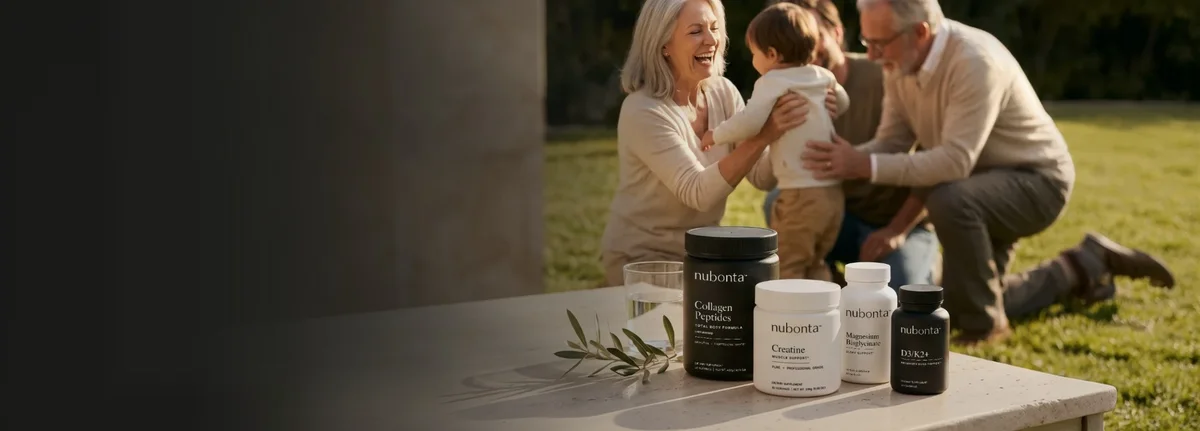
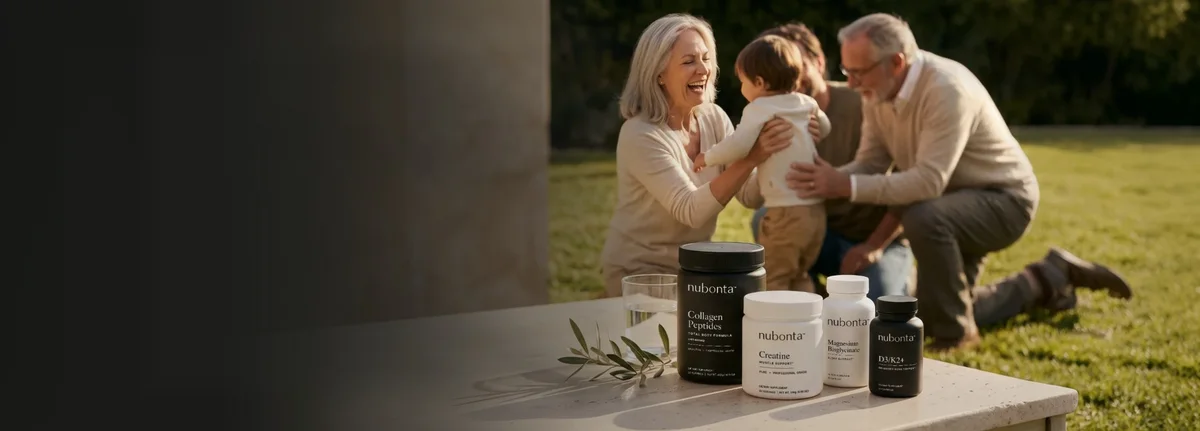
v2 homepage hero: new photo and white Formerly Healthy Bones Co. tag from Figma

diff --git a/v2/index.html b/v2/index.html
@@ -284,7 +284,7 @@ document.addEventListener('DOMContentLoaded', function () {
   background: var(--hero-dark); color: var(--color-white); --focus: var(--color-white); }
 .hero__media { position: absolute; inset: 0; z-index: -3; overflow: hidden; }
 /* user Figma 2026-11-17 (node 6872:4422): the extended photo, shifted ~4% to the left so the Healthy Bones Co. tag fits to the right of the bottles */
-.hero__media img { position: absolute; inset: 0; width: 100%; height: 100%; object-fit: cover; object-position: 100% 50%; }   /* right edge anchored: on screens narrower than 1920 the dark left side is cropped, so the bottles move left of the tag */
+.hero__media img { position: absolute; inset: 0; width: 100%; height: 100%; object-fit: cover; object-position: 80% 50%; }   /* 2026-11-18 new zoomed-out photo (Figma 6933:3123 update): 80% keeps the products between the copy and the tag at 1280-1440 (100% put them under the headline) */   /* right edge anchored: on screens narrower than 1920 the dark left side is cropped, so the bottles move left of the tag */
 /* 2026-11-18 new hero (Figma 6933:3123): new photo (dark left side is in the photo) fills the hero exactly, no parallax, so the products are always whole */
 /* (old silk-shadow layer removed with the new hero, 2026-11-18; it's in _backup-2026-11-18/20-hero-before-new-hero.html) */
 /* Figma 6933:3124: gradient #1a1a18 (user's own value, kept as given) -> transparent, over the left 65.2% (1252 of 1920) */
@@ -299,8 +299,8 @@ document.addEventListener('DOMContentLoaded', function () {
 .hero__ctas .icon { margin-left: var(--space-8); }
 /* user Figma 2026-11-17 ("Tag small banner", node 6872:5079): "Formerly Healthy Bones Co." tag with the HBC logo, Charcoal, flush to the right edge
    next to the bottles (replaces the copper n label; client: don't force the n). The magenta is Healthy Bones Co.'s own logo colour. */
-.hero__tag { position: absolute; right: 0; bottom: 5.1875rem; z-index: 1; display: flex; align-items: center; justify-content: center; gap: 0.3125rem; width: 20rem; padding: var(--space-16); border-radius: 0.75rem 0 0 0.75rem;
-  background: var(--color-charcoal); color: var(--color-white); font: 400 1.125rem/1.2 var(--font-sans); }
+.hero__tag { position: absolute; right: 0; bottom: 5.1875rem; z-index: 1; display: flex; align-items: center; justify-content: center; gap: 0.3125rem; width: 20rem; padding: var(--space-16); border-radius: 0.75rem 0 0 0.75rem; --focus: var(--color-charcoal);
+  background: var(--color-white); color: var(--color-charcoal); font: 400 1.125rem/1.2 var(--font-sans); }
 .hero__tag img { flex: none; width: 6.3125rem; height: auto; }
 
 @media (max-width: 1279px) {
@@ -342,7 +342,7 @@ document.addEventListener('DOMContentLoaded', function () {
   <div class="hero__media">
     <picture>
       <source media="(max-width: 1023px)" srcset="shared/media/hero/hero-family-mobile.webp" width="750" height="800">
-      <img src="shared/media/hero/hero-family-new-1920.webp" srcset="shared/media/hero/hero-family-new-1200.webp 1200w, shared/media/hero/hero-family-new-1920.webp 1920w, shared/media/hero/hero-family-new.webp 2346w" sizes="100vw"
+      <img src="shared/media/hero/hero-family-new-1920.webp" srcset="shared/media/hero/hero-family-new-1200.webp 1200w, shared/media/hero/hero-family-new-1920.webp 1920w, shared/media/hero/hero-family-new.webp 2537w" sizes="100vw"
          alt="A grandmother laughs as she lifts her grandchild on a sunny lawn while the grandfather and a parent look on; Nubonta Collagen Peptides, Creatine, Magnesium and D3/K2+ stand on a travertine table in front" width="1920" height="690">
     </picture>
   </div>
@@ -356,7 +356,7 @@ document.addEventListener('DOMContentLoaded', function () {
       </div>
     </div>
   </div>
-  <p class="hero__tag h-in"><img src="shared/media/partners/healthy-bones-co-logo.svg" alt="" width="101" height="50"><span>Formerly<br>Healthy Bones Co.</span></p>
+  <p class="hero__tag h-in"><img src="shared/media/partners/healthy-bones-co-logo-dark.svg" alt="" width="101" height="50"><span>Formerly<br>Healthy Bones Co.</span></p>
 </section>
 
 <script>
